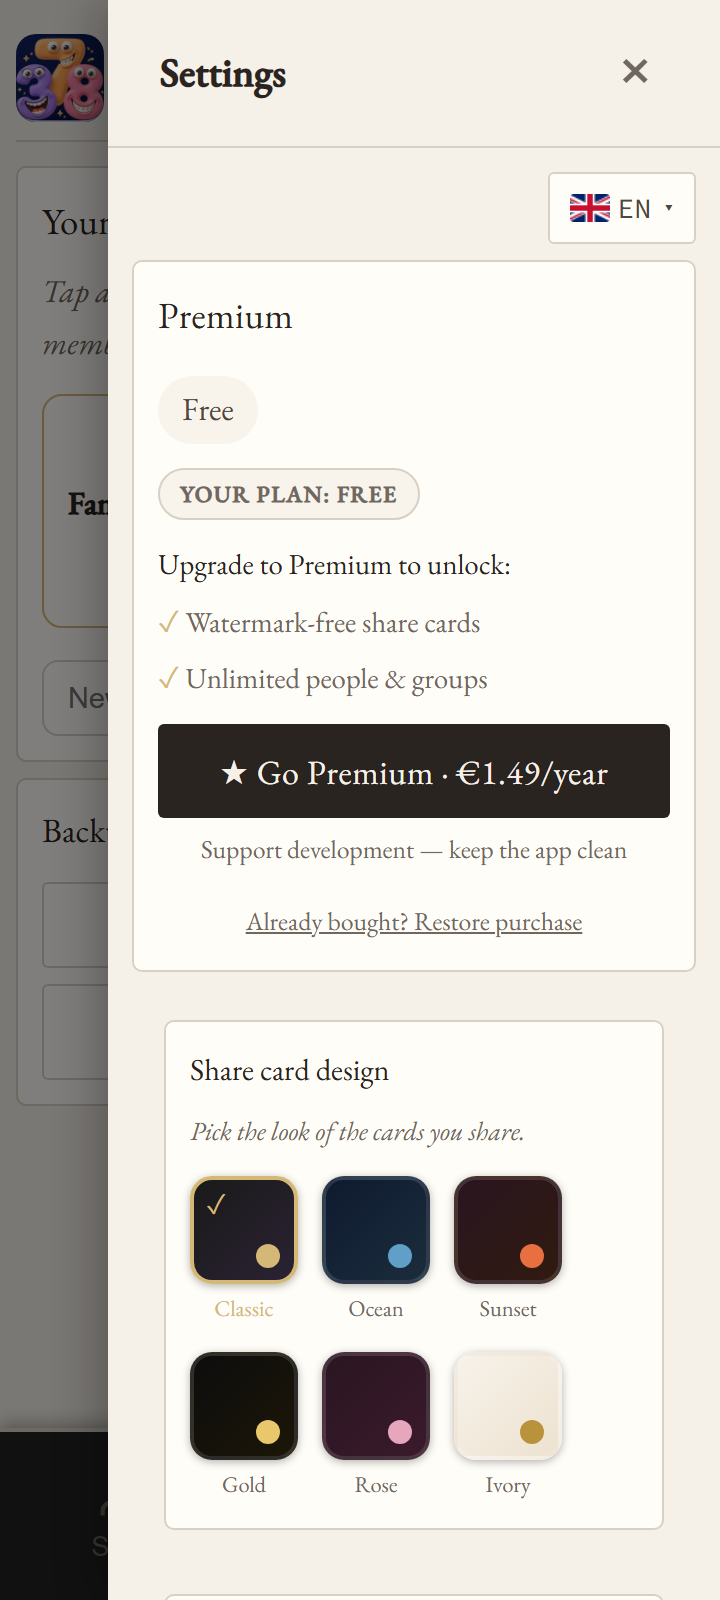
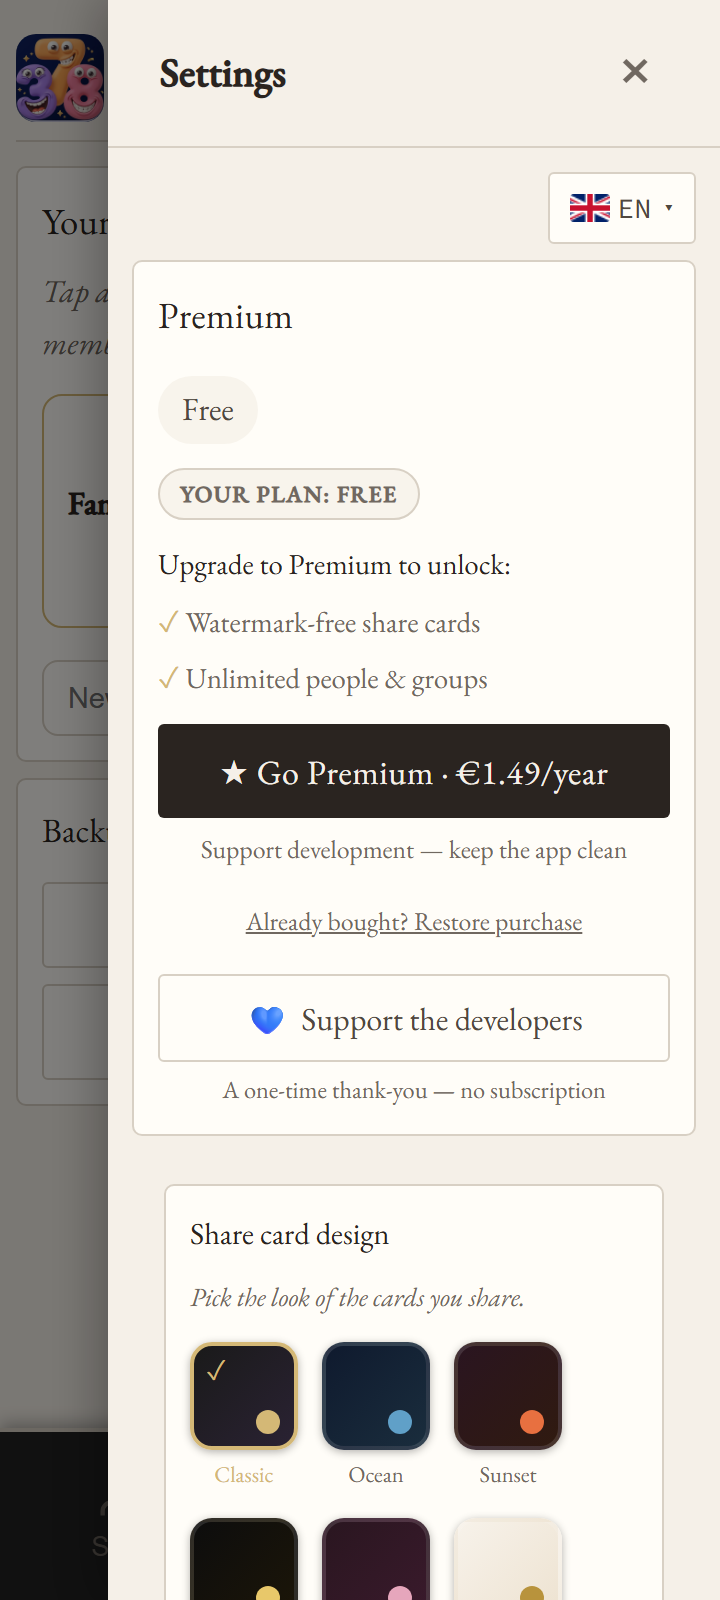
build 116 (2.12.14): Support the developers (one-time tip) — web + Android
New "Support the developers 💙" button in the account panel (shown to free and
premium users). Opens a modal, clearly labelled ONE-TIME (not a subscription):
- Web: preset tips €2/€5/€10/€50 + a custom amount field → Stripe one-time payment
  (create-checkout-session type:'donation', mode:'payment'; amount validated €2–€500;
  returns to ?checkout=support_success → thank-you).
- Android: preset tiers only (Play Billing CONSUMABLE products tip_2/5/10/50 with
  Play-localized prices) — Google requires IAP for in-app purchases and only allows
  fixed amounts, so no custom field on Android. Consumable → can tip again.

Files: billing.js (register + order + consume tips, getTipProducts, startAndroidTip),
create-checkout-session.js (donation branch), app.js (openSupportModal/handleTip/
onTipComplete/showSupportThanks), checkout.js (support_success/cancelled return),
index.html (button), i18n.js (EN strings), validate-build110 (Support checks).

REQUIRES (Gorazd, in Play Console): create four one-time (consumable) in-app products
with IDs tip_2 / tip_5 / tip_10 / tip_50 priced €2/€5/€10/€50, else the Android
tiers show "store not ready". Backend create-checkout-session.js deployed to prod.

Changed region(s): [[0.2139, 0.625, 0.8556, 1.0], [0.1833, 0.5938, 0.2444, 0.7188], [0.9167, 0.625, 0.9472, 0.7188]]

diff --git a/web/app.js b/web/app.js
@@ -7948,6 +7948,87 @@ async function handleUpgrade() {
     }
 }
 
+// ── Support the developers (one-time tip) ──────────────────────────────────
+// Web → Stripe one-time payment (custom amount allowed). Android → Play Billing
+// consumable tip tiers (Play policy requires IAP; fixed amounts only).
+function openSupportModal() {
+    if (typeof _track === 'function') _track('support_opened', {});
+    const native = (typeof billingIsNativeAndroid === 'function') && billingIsNativeAndroid();
+    const presets = [2, 5, 10, 50];
+    let tipProducts = [];
+    if (native && typeof getTipProducts === 'function') tipProducts = getTipProducts();
+    const chipLabel = (amt) => {
+        if (native) { const p = tipProducts.find(t => t.amount === amt); if (p && p.price) return p.price; }
+        return '€' + amt;
+    };
+    const chipStyle = 'background:var(--bg-elevated,rgba(255,255,255,0.06));border:1.5px solid var(--warning,#d4b876);color:var(--warning,#d4b876);border-radius:999px;padding:10px 20px;font:inherit;font-weight:600;cursor:pointer;';
+    const chips = presets.map(amt => {
+        const arg = native ? `'tip_${amt}'` : amt;
+        return `<button style="${chipStyle}" onclick="handleTip(${arg})">${chipLabel(amt)}</button>`;
+    }).join('');
+    const customBlock = native ? '' : `
+        <div style="margin-top:14px;">
+            <div style="font-size:0.82rem;color:var(--text-muted);margin-bottom:6px;">${tt('support_custom')}</div>
+            <div style="display:flex;gap:8px;">
+                <input type="number" id="supportCustom" min="2" max="500" step="1" inputmode="numeric" placeholder="7" class="checkout-email-input" style="flex:1;">
+                <button class="btn-primary" style="width:auto;padding:0 18px;" onclick="handleTipCustom()">${tt('support_give')}</button>
+            </div>
+        </div>`;
+    const modal = document.createElement('div');
+    modal.className = 'modal';
+    modal.id = 'supportModal';
+    modal.onclick = (e) => { if (e.target === modal) modal.remove(); };
+    modal.innerHTML = `
+        <div class="modal-content auth-modal" style="text-align:center;">
+            <div style="font-size:2.4rem;line-height:1;">&#128153;</div>
+            <h3>${tt('support_title')}</h3>
+            <p class="auth-subtitle">${tt('support_body')}</p>
+            <div style="display:flex;gap:8px;justify-content:center;flex-wrap:wrap;margin:16px 0 4px;">${chips}</div>
+            ${customBlock}
+            <p style="font-size:0.75rem;color:var(--text-muted);margin-top:14px;">${tt('support_onetime')}</p>
+            <button class="auth-skip" onclick="document.getElementById('supportModal').remove()">${tt('support_later')}</button>
+        </div>`;
+    document.body.appendChild(modal);
+}
+
+async function handleTip(arg) {
+    const native = (typeof billingIsNativeAndroid === 'function') && billingIsNativeAndroid();
+    if (typeof _track === 'function') _track('support_started', { native: native });
+    if (native) {
+        if (typeof startAndroidTip === 'function') startAndroidTip(String(arg));
+        const m = document.getElementById('supportModal'); if (m) m.remove();
+        return;
+    }
+    const amount = Math.round(Number(arg));
+    if (!(amount >= 2 && amount <= 500)) { showToast(tt('support_range'), 'info'); return; }
+    try {
+        const res = await fetch(apiUrl('/api/create-checkout-session'), {
+            method: 'POST',
+            headers: { 'Content-Type': 'application/json' },
+            body: JSON.stringify({ type: 'donation', amount: amount * 100, returnOrigin: window.location.origin })
+        });
+        const data = await res.json();
+        if (data.url) window.location.href = data.url;
+        else showToast(tt('prem_payment_not_configured'), 'info');
+    } catch (e) { showToast(tt('prem_payment_not_configured'), 'info'); }
+}
+function handleTipCustom() {
+    const el = document.getElementById('supportCustom');
+    handleTip(el ? Math.round(Number(el.value)) : 0);
+}
+function onTipComplete() {
+    const m = document.getElementById('supportModal'); if (m) m.remove();
+    showSupportThanks();
+}
+function showSupportThanks() {
+    showToast(tt('support_thanks'), 'success', 6000);
+}
+window.openSupportModal = openSupportModal;
+window.handleTip = handleTip;
+window.handleTipCustom = handleTipCustom;
+window.onTipComplete = onTipComplete;
+window.showSupportThanks = showSupportThanks;
+
 // Render the premium section of the profile from local state (no account).
 function renderPremiumUI() {
     const until = parseInt(localStorage.getItem('happymoments_premium_until') || '0', 10);

diff --git a/functions/api/create-checkout-session.js b/functions/api/create-checkout-session.js
@@ -31,10 +31,9 @@ export async function onRequestPost(context) {
         return Response.json({ error: 'Invalid request' }, { status: 400 });
     }
 
-    const { type, uid, email, returnOrigin } = body;
+    const { type, uid, email, returnOrigin, amount } = body;
 
-    // For now, only premium subscription
-    if (type !== 'premium') {
+    if (type !== 'premium' && type !== 'donation') {
         return Response.json({ error: 'Invalid product type' }, { status: 400 });
     }
 
@@ -42,26 +41,44 @@ export async function onRequestPost(context) {
     const returnBase = resolveReturnBase(returnOrigin, appUrl);
 
     try {
-        // Create Stripe Checkout Session via REST API (no SDK needed in Workers)
-        const params = new URLSearchParams({
-            'mode': 'subscription',
-            // Card only — keeps Apple/Google Pay (card wallets) but drops Link and
-            // other methods that confused testers on the checkout page.
-            'payment_method_types[0]': 'card',
-            'line_items[0][price_data][currency]': 'eur',
-            'line_items[0][price_data][unit_amount]': '149',
-            'line_items[0][price_data][recurring][interval]': 'year',
-            'line_items[0][price_data][product_data][name]': 'Nice Numbers Premium',
-            // No "Billed annually." here — Stripe already shows that for a yearly
-            // recurring price, so repeating it made it appear twice.
-            'line_items[0][price_data][product_data][description]': 'Watermark-free share cards and exclusive card designs.',
-            'line_items[0][quantity]': '1',
-            'success_url': `${returnBase}/index.html?checkout=premium_success&session_id={CHECKOUT_SESSION_ID}`,
-            'cancel_url': `${returnBase}/index.html?checkout=premium_cancelled`,
-            'metadata[uid]': uid || '',
-            'metadata[type]': 'premium',
-            'allow_promotion_codes': 'true'
-        });
+        let params;
+        if (type === 'premium') {
+            // Yearly subscription. Card only (keeps card wallets, drops Link etc.).
+            params = new URLSearchParams({
+                'mode': 'subscription',
+                'payment_method_types[0]': 'card',
+                'line_items[0][price_data][currency]': 'eur',
+                'line_items[0][price_data][unit_amount]': '149',
+                'line_items[0][price_data][recurring][interval]': 'year',
+                'line_items[0][price_data][product_data][name]': 'Nice Numbers Premium',
+                // No "Billed annually." — Stripe already shows it for a yearly price.
+                'line_items[0][price_data][product_data][description]': 'Watermark-free share cards and exclusive card designs.',
+                'line_items[0][quantity]': '1',
+                'success_url': `${returnBase}/index.html?checkout=premium_success&session_id={CHECKOUT_SESSION_ID}`,
+                'cancel_url': `${returnBase}/index.html?checkout=premium_cancelled`,
+                'metadata[uid]': uid || '',
+                'metadata[type]': 'premium',
+                'allow_promotion_codes': 'true'
+            });
+        } else {
+            // One-time "Support the developers" tip — mode=payment (NOT recurring).
+            const cents = parseInt(amount, 10);
+            if (!(cents >= 200 && cents <= 50000)) {
+                return Response.json({ error: 'Invalid amount' }, { status: 400 });
+            }
+            params = new URLSearchParams({
+                'mode': 'payment',
+                'payment_method_types[0]': 'card',
+                'line_items[0][price_data][currency]': 'eur',
+                'line_items[0][price_data][unit_amount]': String(cents),
+                'line_items[0][price_data][product_data][name]': 'Support Nice Numbers',
+                'line_items[0][price_data][product_data][description]': 'A one-time thank-you to the developers.',
+                'line_items[0][quantity]': '1',
+                'success_url': `${returnBase}/index.html?checkout=support_success`,
+                'cancel_url': `${returnBase}/index.html?checkout=support_cancelled`,
+                'metadata[type]': 'donation'
+            });
+        }
 
         if (email) {
             params.set('customer_email', email);

diff --git a/web/billing.js b/web/billing.js
@@ -26,6 +26,11 @@ var PREMIUM_PRODUCT_ID = 'premium_yearly';   // must match the Play Console prod
 var PREMIUM_FALLBACK_DAYS = 366;             // used only if the receipt carries no expiry
 var _billingInited = false;                  // guard: deviceready + DOMContentLoaded both fire
 
+// One-time "Support the developers" tips — CONSUMABLE Play products (buyable
+// repeatedly). IDs must match the in-app products created in Play Console.
+var TIP_PRODUCT_IDS = ['tip_2', 'tip_5', 'tip_10', 'tip_50'];
+var _pendingTip = null;
+
 function billingIsNativeAndroid() {
     try {
         return typeof Capacitor !== 'undefined'
@@ -86,11 +91,15 @@ function initBilling() {
         var Product = CdvPurchase.ProductType;
         var Platform = CdvPurchase.Platform;
 
-        store.register([{
+        var _regs = [{
             id: PREMIUM_PRODUCT_ID,
             type: Product.PAID_SUBSCRIPTION,
             platform: Platform.GOOGLE_PLAY
-        }]);
+        }];
+        TIP_PRODUCT_IDS.forEach(function (tid) {
+            _regs.push({ id: tid, type: Product.CONSUMABLE, platform: Platform.GOOGLE_PLAY });
+        });
+        store.register(_regs);
 
         store.when()
             // Once Play returns product metadata, mirror its real price in the UI.
@@ -102,6 +111,13 @@ function initBilling() {
             .finished(function (t) {
                 if (store.owned({ id: PREMIUM_PRODUCT_ID, platform: Platform.GOOGLE_PLAY })) {
                     _billingSetPremiumUntil(_billingExpiryFromTransaction(t));
+                }
+                // A one-time tip just completed → thank the buyer (consumables are
+                // not "owned" after finishing, so track it via _pendingTip).
+                if (_pendingTip) {
+                    _pendingTip = null;
+                    try { if (typeof _track === 'function') _track('payment_complete', { product: 'tip', via: 'play_billing' }); } catch (e) {}
+                    try { if (typeof onTipComplete === 'function') onTipComplete(); } catch (e) {}
                 }
             })
             .receiptUpdated(function () {
@@ -140,6 +156,49 @@ function startAndroidPurchase() {
 function restoreAndroidPurchases() {
     if (!billingIsNativeAndroid()) return;
     try { CdvPurchase.store.restorePurchases(); } catch (e) {}
+}
+
+// One-time tip: order a CONSUMABLE tip product (Play Billing). `productId` is one
+// of TIP_PRODUCT_IDS. Consumables can be purchased repeatedly.
+function startAndroidTip(productId) {
+    if (!billingIsNativeAndroid()) return false;
+    try {
+        var store = CdvPurchase.store;
+        var product = store.get(productId, CdvPurchase.Platform.GOOGLE_PLAY);
+        var offer = product && product.getOffer();
+        if (!offer) { if (typeof showToast === 'function') showToast('Store not ready — try again in a moment', 'info'); return false; }
+        _pendingTip = productId;
+        offer.order();
+        return true;
+    } catch (e) {
+        if (typeof showToast === 'function') showToast('Could not start', 'info');
+        return false;
+    }
+}
+
+// Localized Play prices for the tip tiers, for the Support UI.
+function getTipProducts() {
+    var out = [];
+    if (!billingIsNativeAndroid()) return out;
+    try {
+        var store = CdvPurchase.store;
+        TIP_PRODUCT_IDS.forEach(function (id) {
+            var p = store.get(id, CdvPurchase.Platform.GOOGLE_PLAY);
+            var price = null;
+            if (p) {
+                var o = p.getOffer && p.getOffer();
+                if (o && o.pricingPhases && o.pricingPhases.length) price = o.pricingPhases[0].price;
+                if (!price && p.pricing && p.pricing.price) price = p.pricing.price;
+            }
+            out.push({ id: id, amount: parseInt(id.split('_')[1], 10), price: price });
+        });
+    } catch (e) {}
+    return out;
+}
+
+if (typeof window !== 'undefined') {
+    window.startAndroidTip = startAndroidTip;
+    window.getTipProducts = getTipProducts;
 }
 
 // Initialize once the plugin + Capacitor are ready.

diff --git a/tools/validate-build110.js b/tools/validate-build110.js
@@ -67,6 +67,15 @@ function serve() {
         out.notifApi = (typeof NOTIF !== 'undefined') && typeof NOTIF.scheduleMilestoneNotifications === 'function';
         // #3 celestial toggle present + gated
         out.cosmicToggle = !!document.querySelector('[data-pattern="cosmic"]');
+        // Support the developers (one-time tip): button + modal open, one-time copy
+        out.supportBtn = !!document.querySelector('[data-i18n="support_devs_btn"]');
+        try {
+            openSupportModal();
+            const m = document.getElementById('supportModal');
+            out.supportModalOneTime = !!m && /one-time/i.test(m.textContent) && /not a subscription/i.test(m.textContent);
+            out.supportHasPresets = !!m && m.textContent.includes('€2') && m.textContent.includes('€50');
+            if (m) m.remove();
+        } catch (e) { out.supportErr = e.message; }
         return out;
     });
 
@@ -76,6 +85,9 @@ function serve() {
         ['#7 short number keeps full unit', r.shortNum && r.shortNum.unit === 'days', JSON.stringify(r.shortNum)],
         ['#1 gift design renders (with editable unit)', r.giftCanvas && r.giftCanvas.w > 0 && !r.giftError, JSON.stringify(r.giftCanvas || r.giftError)],
         ['#3 Nice Numbers logo in app header', r.headerLogo === true, r.headerLogo],
+        ['Support button present', r.supportBtn === true, r.supportBtn],
+        ['Support modal shows presets €2–€50', r.supportHasPresets === true, r.supportErr || r.supportHasPresets],
+        ['Support modal states one-time', r.supportModalOneTime === true, r.supportErr || r.supportModalOneTime],
         ['#2 full country list (>200)', r.countryCount > 200, r.countryCount],
         ['#2 US states present', r.hasUSStates === true, JSON.stringify(r.stateCountries)],
         ['#2 State dropdown appears for US', r.stateForUS === true, r.stateErr || r.stateForUS],

diff --git a/web/i18n.js b/web/i18n.js
@@ -490,6 +490,17 @@ const I18N = (() => {
             prem_gate_used_views: 'You\'ve used your {count} free Team views.',
             prem_gate_upgrade_for: 'Upgrade to Premium for unlimited access.',
             prem_gate_upgrade_btn: 'Upgrade — {price}/year',
+            // ── Support the developers (one-time tip) ──
+            support_devs_btn: 'Support the developers',
+            support_devs_sub: 'A one-time thank-you — no subscription',
+            support_title: 'Support the developers',
+            support_body: 'Nice Numbers is free. If you enjoy it, a one-time tip helps us keep building — thank you!',
+            support_onetime: 'One-time payment — not a subscription.',
+            support_custom: 'Or enter your own amount (€)',
+            support_give: 'Give',
+            support_range: 'Please enter an amount between €2 and €500.',
+            support_thanks: 'Thank you so much for your support! 💙',
+            support_later: 'Maybe later',
             // ── Premium card (account-less) ──
             prem2_title: 'Premium',
             prem2_active: "You're Premium",

diff --git a/web/index.html b/web/index.html
@@ -457,6 +457,10 @@
                         <a href="#" onclick="restorePurchase(); return false;" style="font-size:0.8rem;color:var(--text-muted);" data-i18n="prem2_restore_link">Already bought? Restore purchase</a>
                     </div>
                 </div>
+                <div style="margin-top:14px;text-align:center;">
+                    <button class="btn-secondary" onclick="openSupportModal()" style="width:100%;"><span style="margin-right:6px;">&#128153;</span><span data-i18n="support_devs_btn">Support the developers</span></button>
+                    <div style="font-size:0.76rem;color:var(--text-muted);margin-top:5px;" data-i18n="support_devs_sub">A one-time thank-you &mdash; no subscription</div>
+                </div>
             </div>
 
             <!-- Share card design (premium perk) -->

diff --git a/web/checkout.js b/web/checkout.js
@@ -173,6 +173,12 @@ function checkCheckoutResult() {
     } else if (checkoutResult === 'gift_cancelled') {
         showToast('Gift order cancelled. Your design is saved if you want to try again.', 'info');
         window.history.replaceState({}, '', window.location.pathname);
+    } else if (checkoutResult === 'support_success') {
+        window.history.replaceState({}, '', window.location.pathname);
+        if (typeof HM_ANALYTICS !== 'undefined') HM_ANALYTICS.track('support_payment_success', {});
+        if (typeof showSupportThanks === 'function') showSupportThanks();
+    } else if (checkoutResult === 'support_cancelled') {
+        window.history.replaceState({}, '', window.location.pathname);
     }
 }
 
